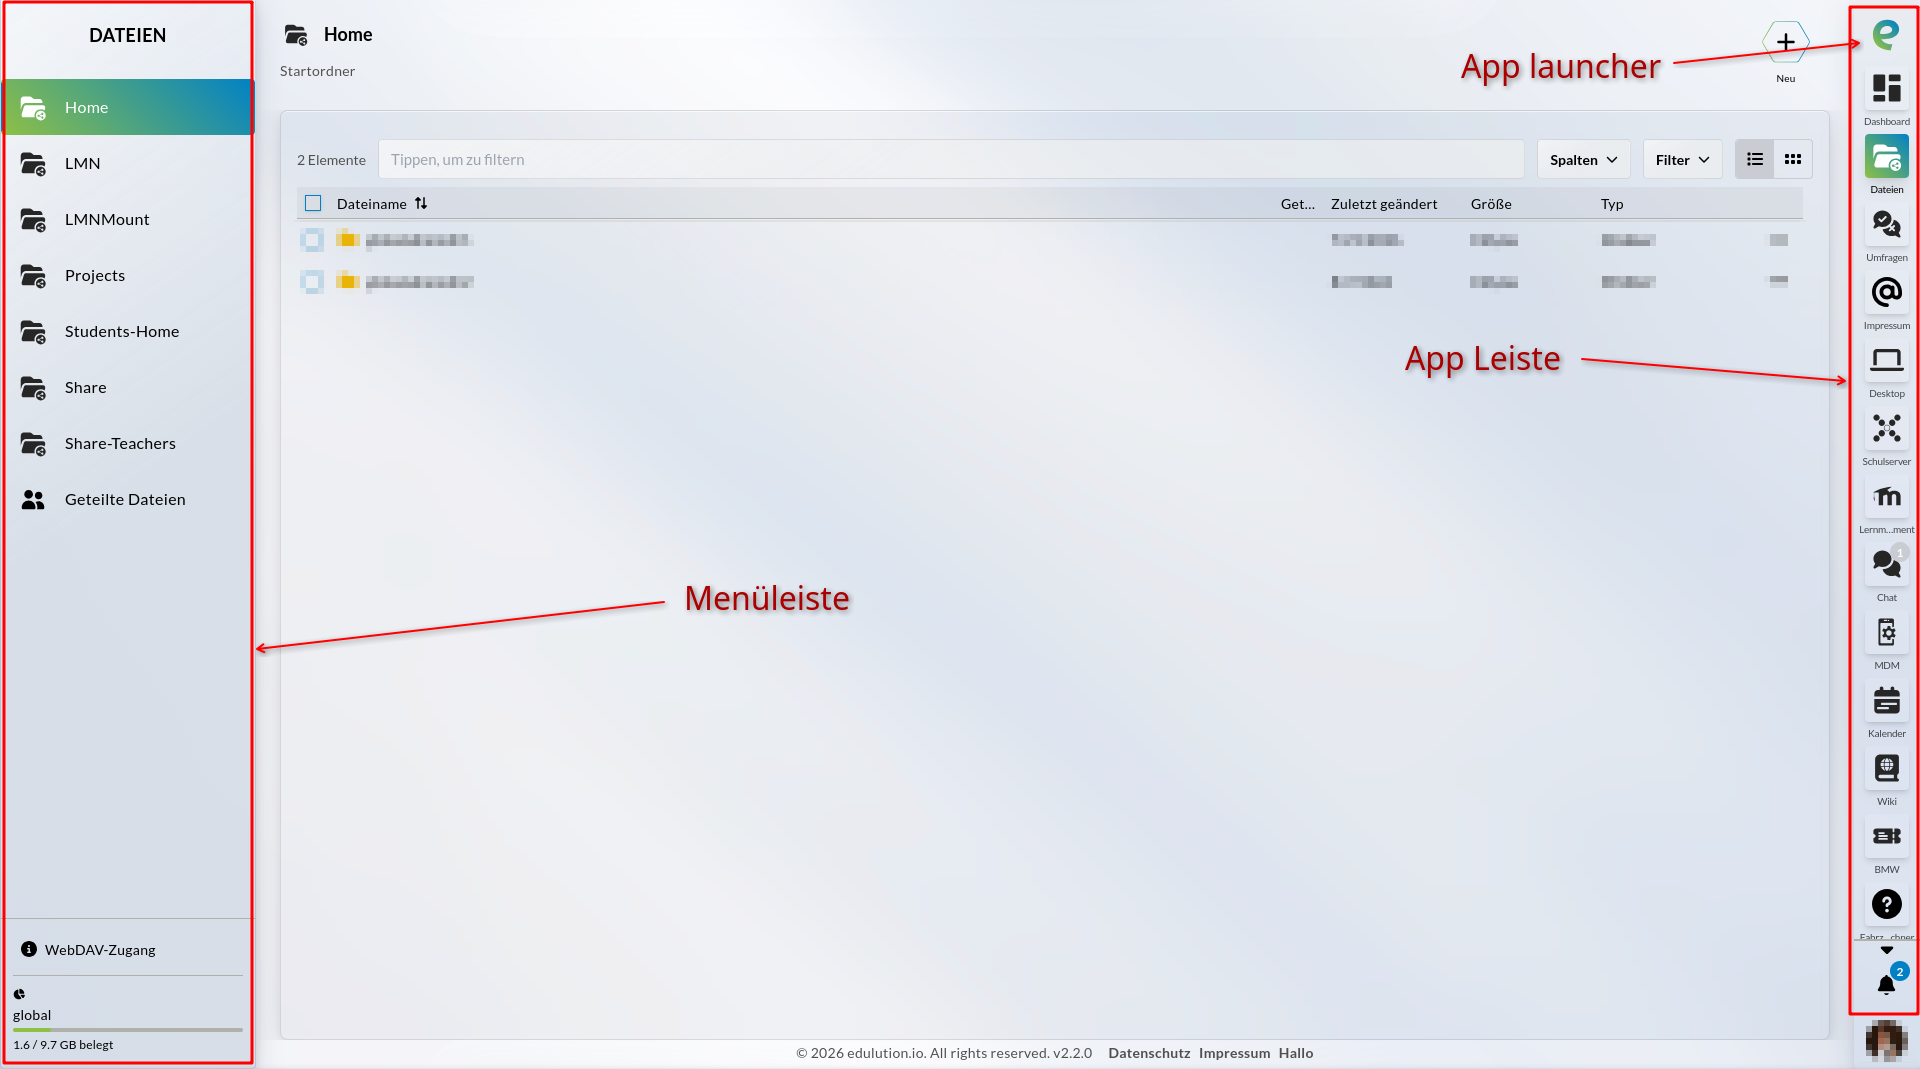
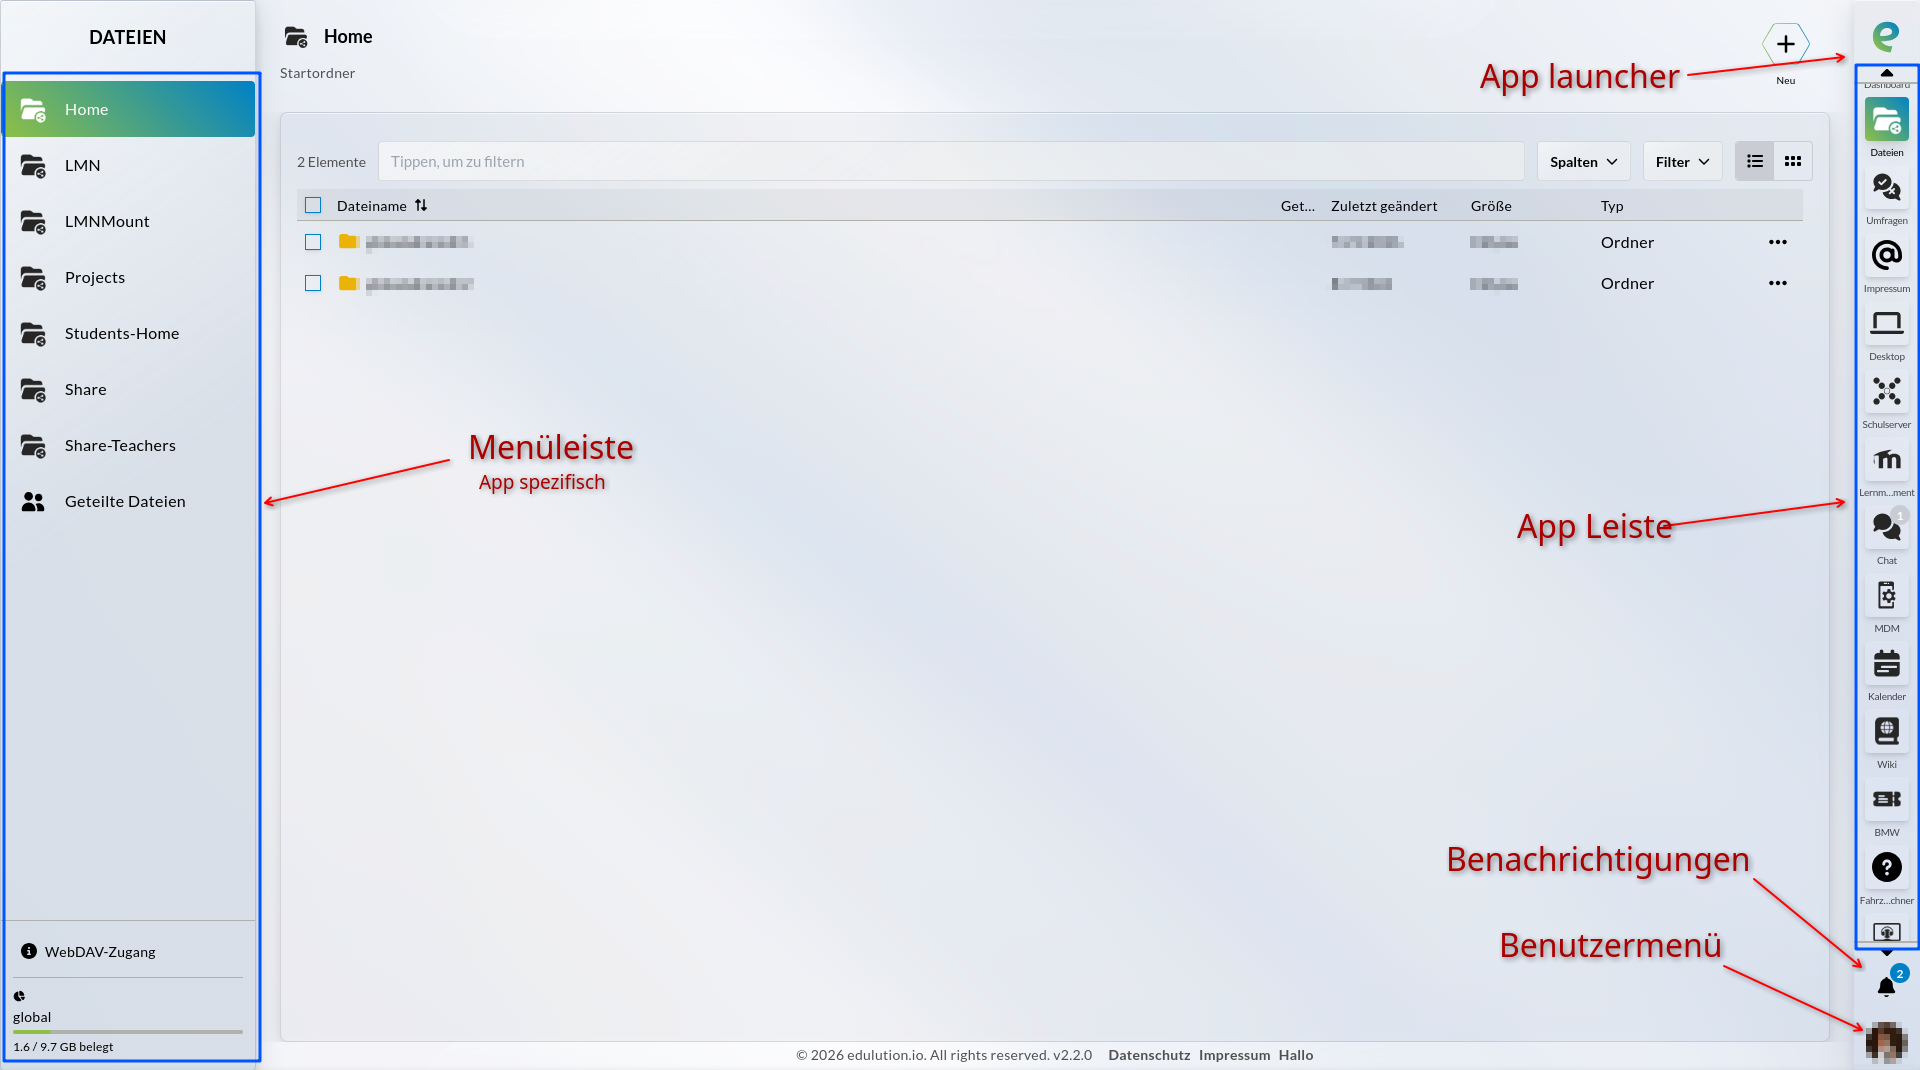
Ergaenze Screenshots der mobilen Navigation
Fuege Screenshots der mobilen Ansicht mit geschlossener und offener
Seitenleiste hinzu und aktualisiere den Uebersichts-Screenshot.

diff --git a/docs/edulution-ui/features/navigation.md b/docs/edulution-ui/features/navigation.md
@@ -118,6 +118,8 @@ Es ist immer nur eine der beiden Leisten geöffnet: Öffnen Sie die eine, schlie
 
 Die eingeblendete App-Leiste zeigt die Apps mit vollem Namen untereinander – zuerst die Favoriten, nach der Trennlinie die laufenden Apps. Am unteren linken Rand stehen die installierte Version und der Copyright-Hinweis.
 
+![Navigation Mobile Ansicht mit geschlossener Seitenleiste](/img/navigation_mobile_closed.png) ![Navigation Mobile Ansicht mit offener Seitenleiste](/img/navigation_mobile_opened.png)
+
 ## Weitere Informationen
 
 - [Dashboard](dashboard.md) – Startseite nach der Anmeldung
